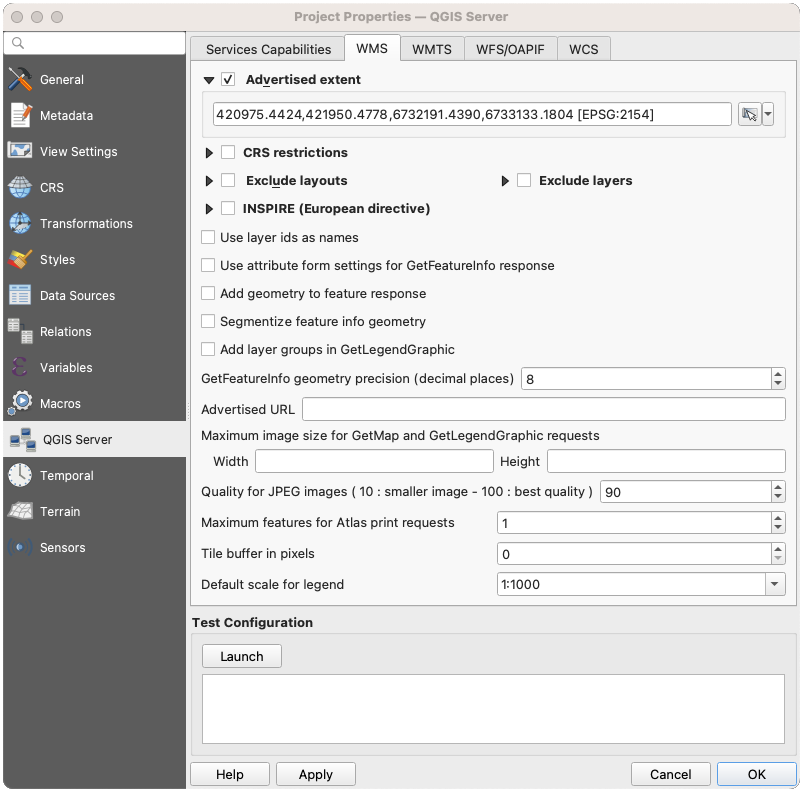
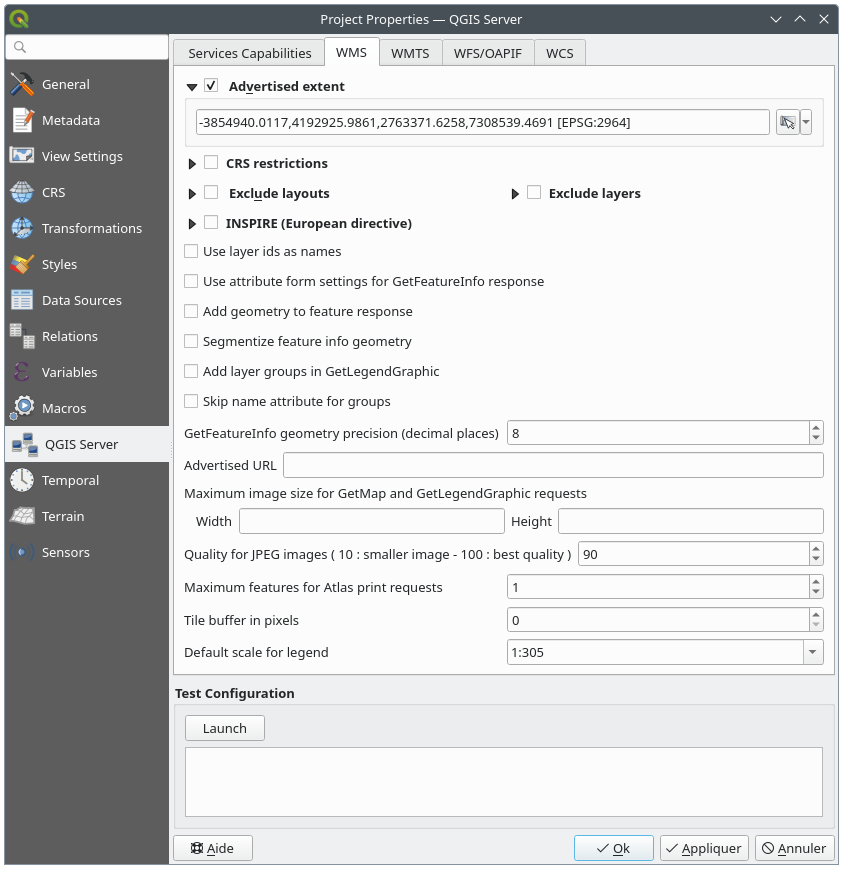
Skip name attribute for groups in wms capabilities document
Fixes #8675

Changed region(s): [[0.0, 0.0, 0.9975, 0.995], [0.6234, 0.2111, 0.7793, 0.2412], [0.0, 0.9648, 0.0312, 0.995]]

diff --git a/docs/server_manual/getting_started.rst b/docs/server_manual/getting_started.rst
@@ -906,6 +906,14 @@ Check the |checkbox| :guilabel:`Add layer groups in GetLegendGraphic` option
 if you want to also insert the layer groups (and subgroups) names
 into the layer tree, just like in QGIS Desktop legend.
 
+When QGIS project contains layer groups, they are listed in WMS capabilities document alongside with layers.
+If a group (its name as listed in capabilities) is included in WMS GetMap ``LAYERS`` parameter
+alongside with names of layers in that group, QGIS would duplicate the layers:
+once for the group and once for specific layer.
+Check the |checkbox| :guilabel:`Skip name attribute for groups` option
+to avoid the duplication: group names are not returned in GetCapabilities
+and only the leaf layers can be requested in GetMap.
+
 You can also use the :guilabel:`GetFeatureInfo geometry precision` option to
 set the precision of the GetFeatureInfo geometry. This enables you to save
 bandwidth when you don't need the full precision.
